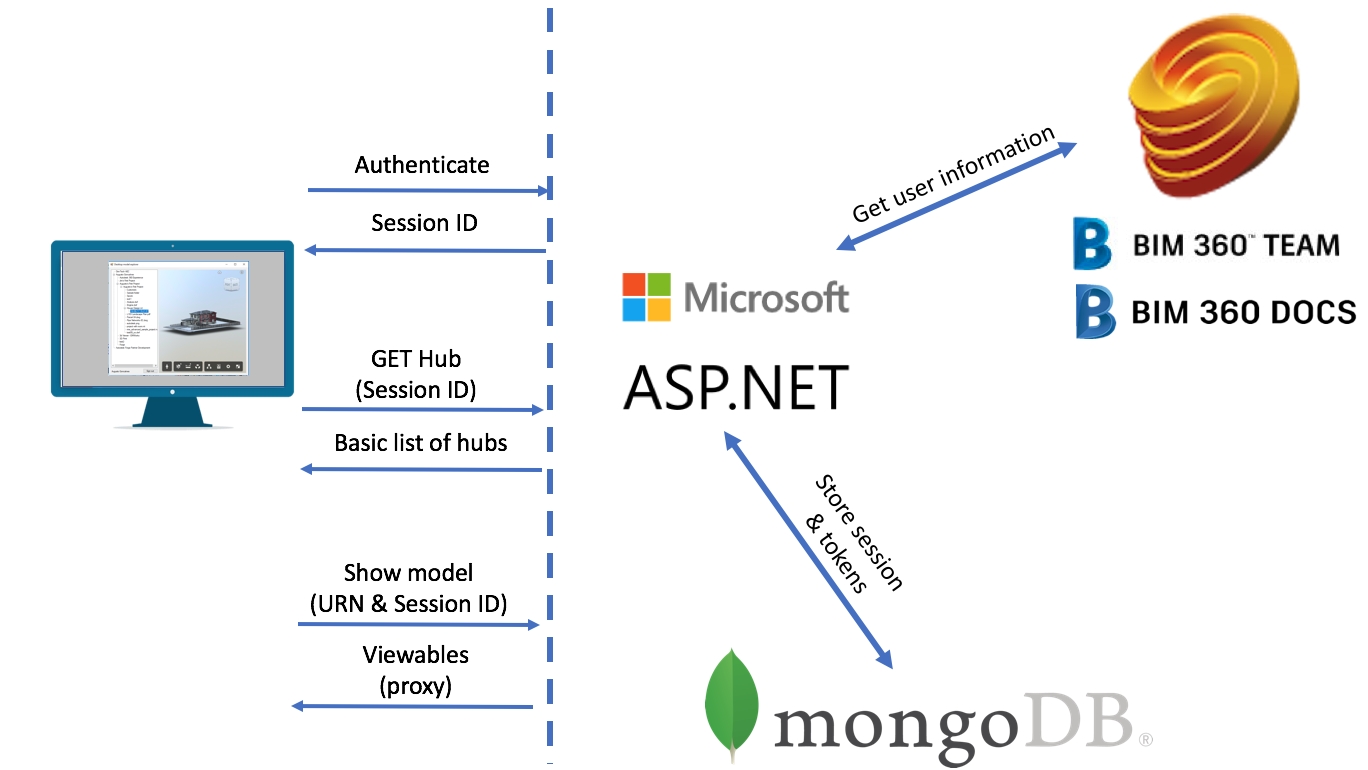
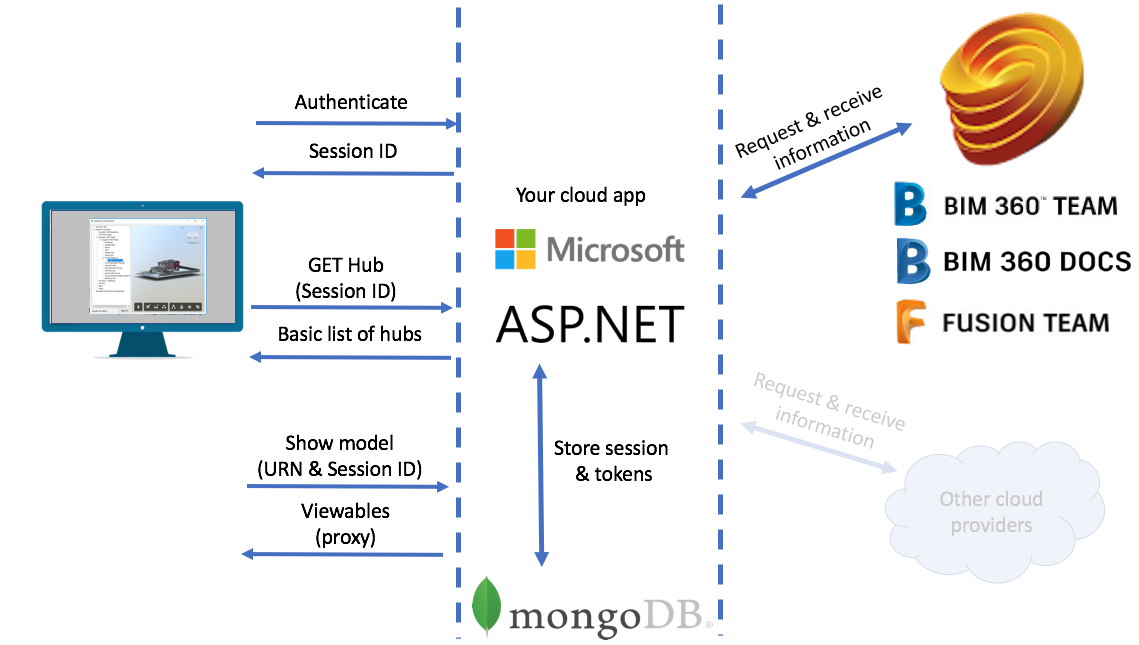
readme update
plus minor code reorg

diff --git a/data.management-csharp-desktop.sample/cloud/Controllers/OAuthController.cs b/data.management-csharp-desktop.sample/cloud/Controllers/OAuthController.cs
@@ -29,14 +29,14 @@ namespace FPD.Sample.Cloud.Controllers
             // at this point we can store the access & refresh token on a database and return 
             // the respective DB unique ID, that way the application can refresh the token in
             // and the client will not see it. 
-            string sessionId = await OAuthDB.RegisterUser(bearer);
+            string sessionIdUnprotected = await OAuthDB.RegisterUser(bearer);
 
             // and encrypt the database ID to send to the user
-            byte[] userIdentifier = System.Web.Security.MachineKey.Protect(Encoding.UTF8.GetBytes(sessionId));
+            string sessionIdProtected = Convert.ToBase64String(System.Web.Security.MachineKey.Protect(Encoding.UTF8.GetBytes(sessionIdUnprotected)));
 
             // return to user 
             HttpResponseMessage res = Request.CreateResponse(System.Net.HttpStatusCode.OK);
-            res.Content = new StringContent(Convert.ToBase64String(userIdentifier), Encoding.UTF8, "text/plain");
+            res.Content = new StringContent(sessionIdProtected, Encoding.UTF8, "text/plain");
 
             return res;
         }

diff --git a/data.management-csharp-desktop.sample/desktop/SessionManager.cs b/data.management-csharp-desktop.sample/desktop/SessionManager.cs
@@ -9,7 +9,12 @@ namespace FPD.Sample.Desktop
     class SessionManager
     {
         private static string _sessionId;
+#if DEBUG
         private const string FILENAME = "SessionID.txt";
+#else
+        // On release we should use a name that doesn't make sense
+        private const string FILENAME = "SomeRandomName.txt";
+#endif
 
         /// <summary>
         /// Return the session id stored locally from the server

diff --git a/README.md b/README.md
@@ -1,6 +1,6 @@
 # data.management-csharp-desktop.sample
 
-This sample demonstrate a **Desktop** application that shows BIM 360 Team, BIM 360 Docs and Fusion Team hubs, which respective Projects, Folders, Items and Versions. For each version it is possible to view it using Viewer.
+This sample demonstrates a **Desktop** application that shows BIM 360 Team, BIM 360 Docs and Fusion Team hubs, which respective Projects, Folders, Items and Versions. For each version it is possible to view it using Viewer.
 
 ## Demonstration
 
@@ -10,7 +10,7 @@ See [this quick video](https://twitter.com/augustomaia/status/905178317686439937
 
 ## Architecture
 
-When the user opens the desktop application, it redirects to Autodesk Account sign in page using the Forge Client ID stored on the Cloud module. After authenticating, the **access_token** and **refresh_token** are stored on an MongoDB database, creating a session ID. This ID is encrypted and sent to the Desktop client. 
+When the user opens the desktop application, it redirects to Autodesk Account sign in page using the Forge Client ID stored on the Cloud module. After authenticating, the **access_token** and **refresh_token** are stored on a MongoDB database, creating a session ID. This ID is encrypted and sent to the Desktop client. 
 
 On the next request, the Desktop client provides the Session ID, the Cloud module uses that to get the respective **access_token** and connects to Autodesk. Once the data is acquired, it is adjusted and sent to the Desktop client. 
 
@@ -62,7 +62,7 @@ For AWS Elastic Beanstalk, setup keys from `web.config`. More details soon.
 
 The CEF Sharp library should work on `AnyCPU`, but this sample uses only `x64` version. [This issue](https://github.com/cefsharp/CefSharp/issues/1714) entry explains how to adjust it, if needed.
 
-To keep keys locally, the sample defines a `web.keys.config` file that is added to **.gitignore**. On local development environment, this files stores the keys. When commit to Github, this file is not included. 
+To keep keys locally, the sample defines a `web.keys.config` file that is added to **.gitignore**. On local development environment, this file stores the keys. When commit to Github, this file is not included. 
 
 The AWS Elastic Beanstalk deployment cannot override `web.config` variables on deployment, so this sample includes a **transform** on the `web.Release.config` to remove them. With that it should work.
 
